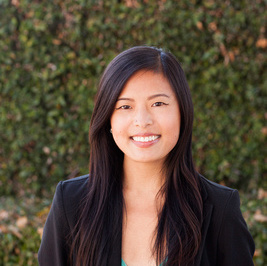
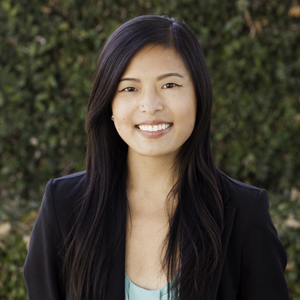
updated team headshots

diff --git a/about.html b/about.html
@@ -247,7 +247,7 @@
 
 				<li> 
 					<figure class="scale-overlay-effect" data-src="img/300x300.gif" data-name="Sean Conners" data-title="Associate" data-bio="Sean graduated from UC Berkeley in 2013 with a BA in Public Health and a minor in Public Policy. After college, Sean worked as an English writing teacher to a class of graduate students in Tanzania. At Boost, Sean specializes in Affordable Care Act compliance and maximizing revenue for small community hospitals. In his free time, Sean enjoys long bike rides and eating Mexican food. His Mexican food obsession was fueled during his college years by many a trip to Berkeley eatery La Burrita, a local chain beloved by students and professors alike.">
-						<img src="img/300x300.gif"/>
+						<img src="img/team/sean.jpg"/>
 						<figcaption>
 							<h4 class="serif">Sean Conners</h4>
 							<h5>Associate</h5>
@@ -297,13 +297,14 @@
 				</li>
 
 				<li> 
-					<figure class="scale-overlay-effect" data-src="img/300x300.gif" data-name="Kate Radcliffe" data-title="Associate" data-bio="Lorem ipsum">
-						<img src="img/300x300.gif"/>
-					</figure>
+					<figure class="scale-overlay-effect" data-src="img/300x300.gif" data-name="Kate Radcliffe" data-title="Associate" data-bio="Kate is a fourth year undergraduate student at UC Berkeley with a major in Public Health and a minor in Spanish. She currently specializes in workers’ compensation denials in the state of Washington. When she’s not fastidiously pricing workers’ compensation claims, Kate spends her time lying in warm piles of freshly laundered clothing. ">
+						<img src="img/team/kate.jpg"/>
+						
 						<figcaption>
 							<h4 class="serif">Kate Radcliffe</h4>
 							<h5>Associate</h5>
-						</figcaption>						
+						</figcaption>
+					</figure>					
 				</li>
 
 				<li>

diff --git a/expertise.html b/expertise.html
@@ -92,7 +92,7 @@
 					
 
 						<p>
-						Navigating and negotiating with all of these parties requires frequent contact and can place exorbitant demands on hospital staff. Boost specializes in workers' compensation account resolution with a team of expert claims professionals who understand both state payment fee schedules and federal guidelines. Boost takes a hands-on approach by pursuing reimbursement through persistent follow-up and legal-based payment letters to ensure prompt payment.</p>
+						Navigating and negotiating with all of these parties requires frequent contact and can place  disproportionate demands on hospital staff. Boost specializes in workers' compensation account resolution with a team of expert claims professionals who understand both state payment fee schedules and federal guidelines. Boost takes a hands-on approach by pursuing reimbursement through persistent follow-up and legal-based payment letters to ensure prompt payment.</p>
 
 
 					</div>
